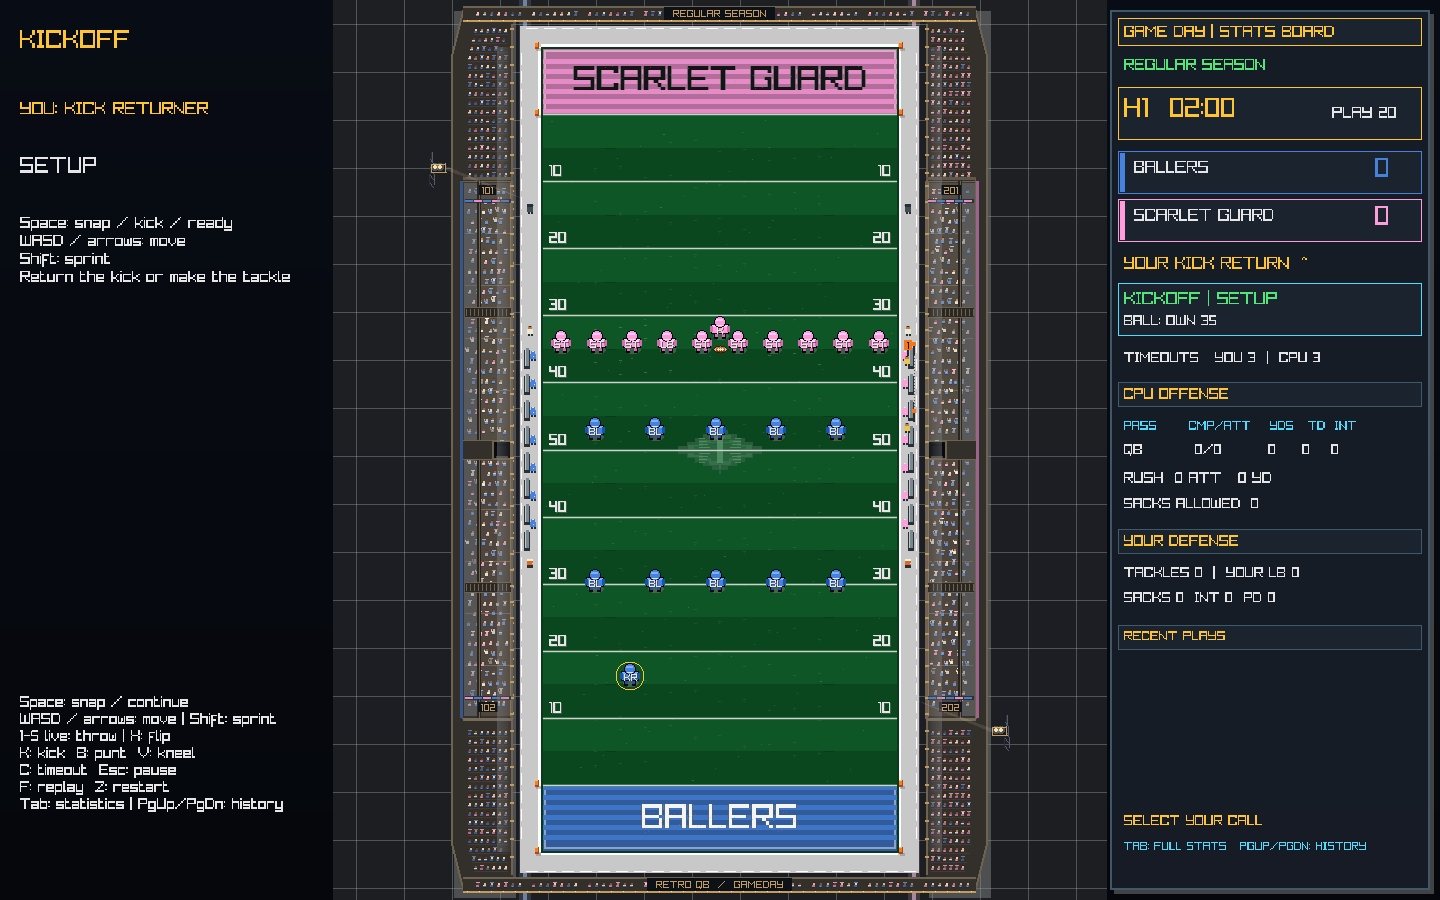
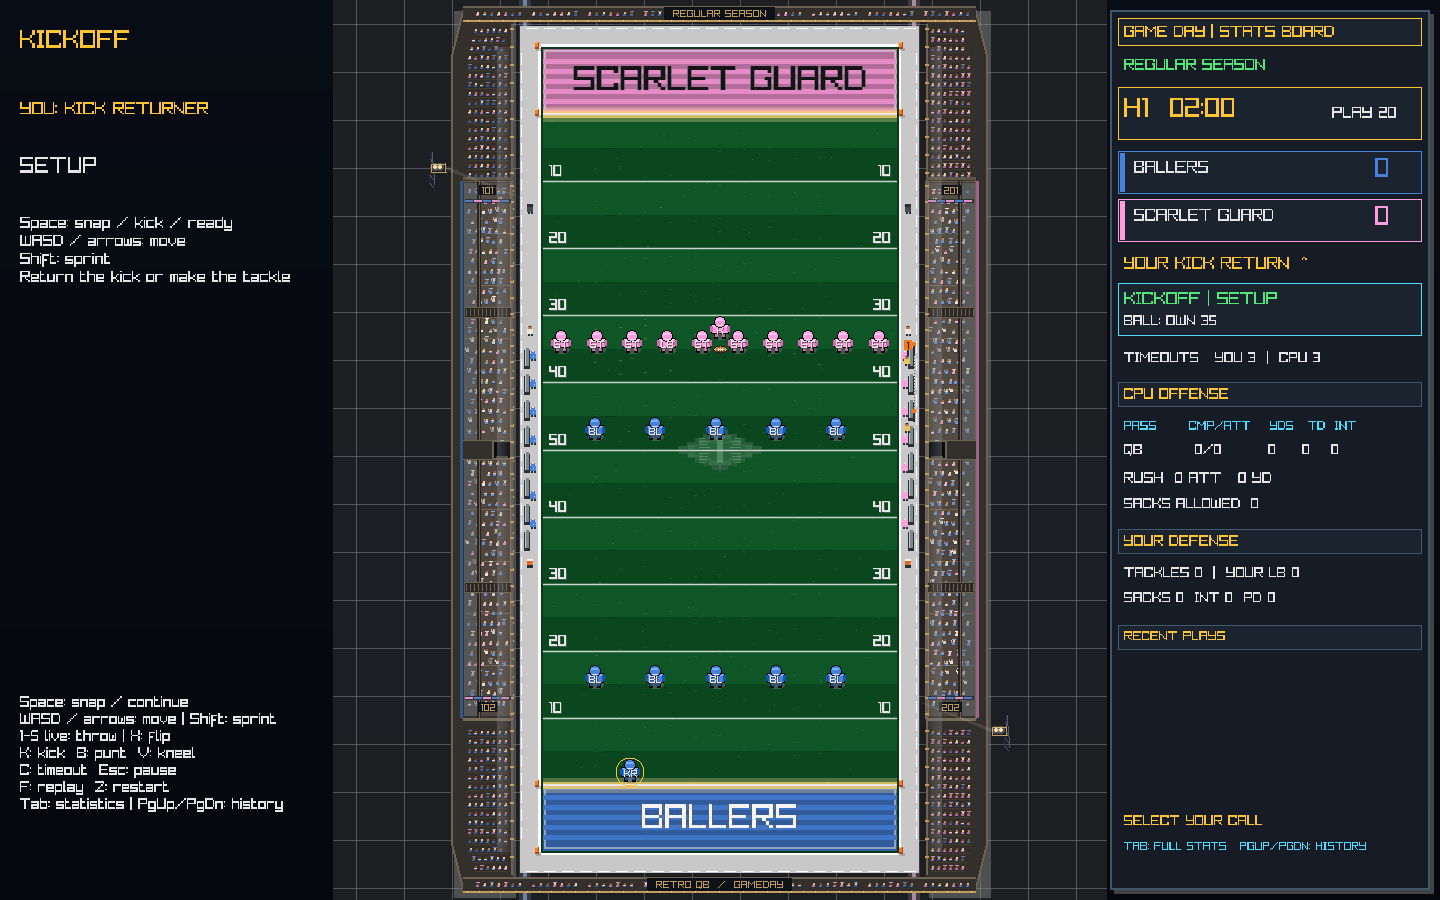
Highlight goal lines during kicking plays

diff --git a/RetroQB/Rendering/FieldMarkingsRenderer.cs b/RetroQB/Rendering/FieldMarkingsRenderer.cs
@@ -5,11 +5,25 @@ namespace RetroQB.Rendering;
 
 internal sealed class FieldMarkingsRenderer
 {
-    public void Draw(float lineOfScrimmage, float firstDownLine, bool showPlayMarkers = true)
+    public void Draw(float lineOfScrimmage, float firstDownLine, bool showPlayMarkers = true, bool highlightGoalLines = false)
     {
         DrawYardLines();
+        if (highlightGoalLines) DrawHighlightedGoalLines();
         DrawHashMarks();
         if (showPlayMarkers) DrawMarkers(lineOfScrimmage, firstDownLine);
+    }
+
+    private static void DrawHighlightedGoalLines()
+    {
+        Rectangle rect = Constants.FieldRect;
+        int left = (int)rect.X, right = (int)(rect.X + rect.Width);
+        foreach (float worldY in new[] { Constants.EndZoneDepth, Constants.EndZoneDepth + 100 })
+        {
+            int y = (int)Constants.WorldToScreenY(worldY);
+            Raylib.DrawRectangle(left, y - 7, right - left, 15, new Color(255, 190, 45, 45));
+            Raylib.DrawRectangle(left, y - 3, right - left, 7, new Color(255, 190, 45, 180));
+            Raylib.DrawLineEx(new(left, y), new(right, y), 2, Palette.White);
+        }
     }
 
     private static void DrawYardLines()

diff --git a/RetroQB/Rendering/FieldRenderer.cs b/RetroQB/Rendering/FieldRenderer.cs
@@ -35,7 +35,7 @@ public sealed class FieldRenderer
         string awayTeamName,
         Color awayTeamColor,
         SeasonStage stage,
-        CrowdBackdropState crowdState, int down = 1, bool showPlayMarkers = true)
+        CrowdBackdropState crowdState, int down = 1, bool showPlayMarkers = true, bool highlightGoalLines = false)
     {
         bool downScreen = Constants.OffenseDownScreen;
         // Stadium, turf and end-zone identities stay fixed; only play coordinates change direction.
@@ -47,7 +47,7 @@ public sealed class FieldRenderer
                 downScreen ? Constants.FieldLength - lineOfScrimmage : lineOfScrimmage);
         }
         finally { Constants.OffenseDownScreen = downScreen; }
-        _fieldMarkings.Draw(lineOfScrimmage, firstDownLine, showPlayMarkers);
+        _fieldMarkings.Draw(lineOfScrimmage, firstDownLine, showPlayMarkers, highlightGoalLines);
         _sidelineRenderer.Draw(homeTeamColor, awayTeamColor, lineOfScrimmage, firstDownLine, down);
         DrawBoundary();
         // The celebration uses the same fixed seating coordinates as the stadium.

diff --git a/RetroQB/Rendering/FullMatchRenderer.cs b/RetroQB/Rendering/FullMatchRenderer.cs
@@ -35,7 +35,8 @@ public sealed class FullMatchRenderer
             (float)session.PresentationSeconds, celebration, .5f, homeCheers, (float)(180 - c.RemainingSeconds));
         _field.DrawField(frame?.LineOfScrimmage ?? d.Plays.LineOfScrimmage, frame?.FirstDownLine ?? d.Plays.FirstDownLine,
             m.User.Definition.Name, m.User.Definition.PrimaryColor, m.Opponent.Definition.Name, m.Opponent.Definition.PrimaryColor, recorded?.Stage ?? m.Stage,
-            frame != null ? default : crowd, frame?.Down ?? m.Series.Down, showPlayMarkers: frame != null || session.SpecialTeams == null);
+            frame != null ? default : crowd, frame?.Down ?? m.Series.Down, showPlayMarkers: frame != null || session.SpecialTeams == null,
+            highlightGoalLines: frame == null && (session.SpecialTeams != null || session.Kick != null));
         if (frame != null)
         {
             foreach (var actor in new[] { frame.Quarterback }.Concat(frame.Receivers).Concat(frame.Blockers).Concat(frame.Defenders))
